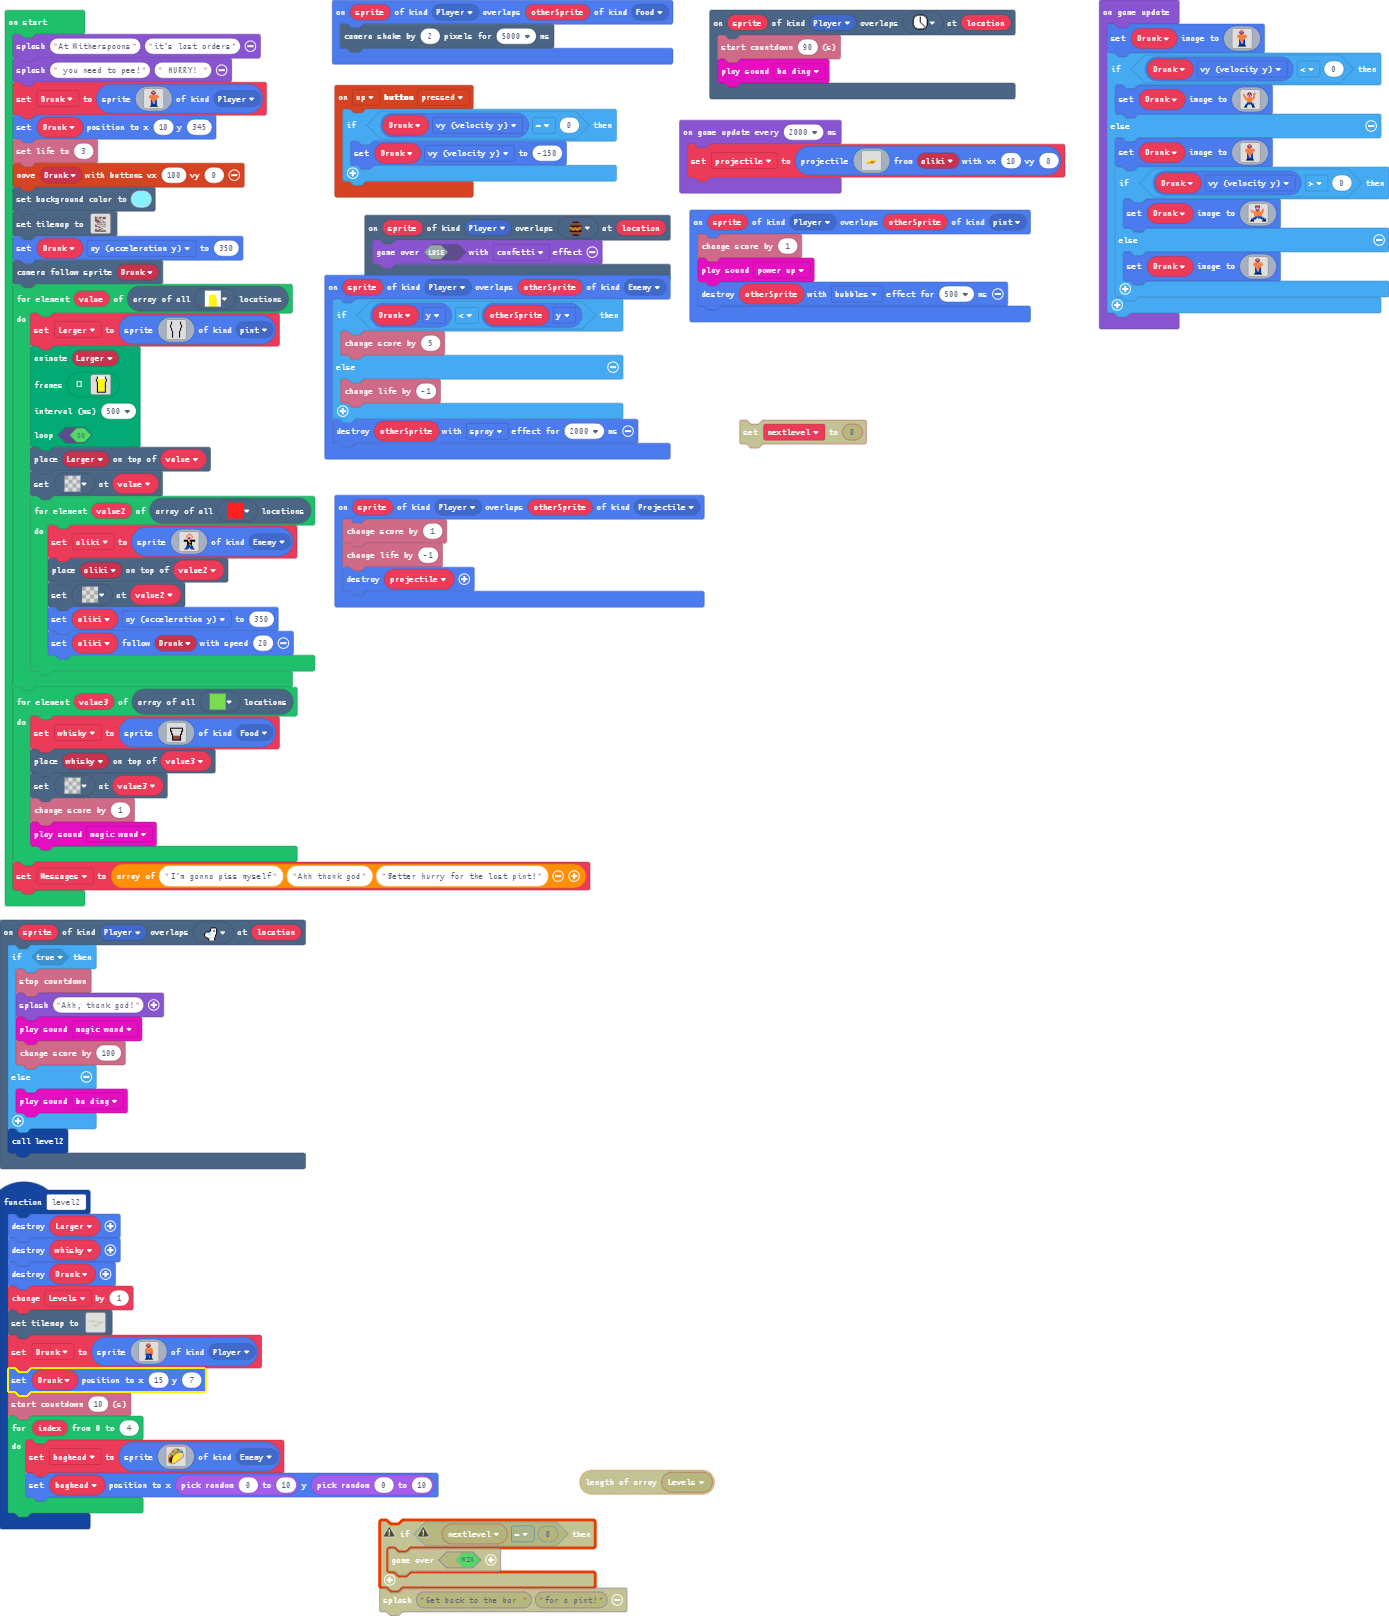
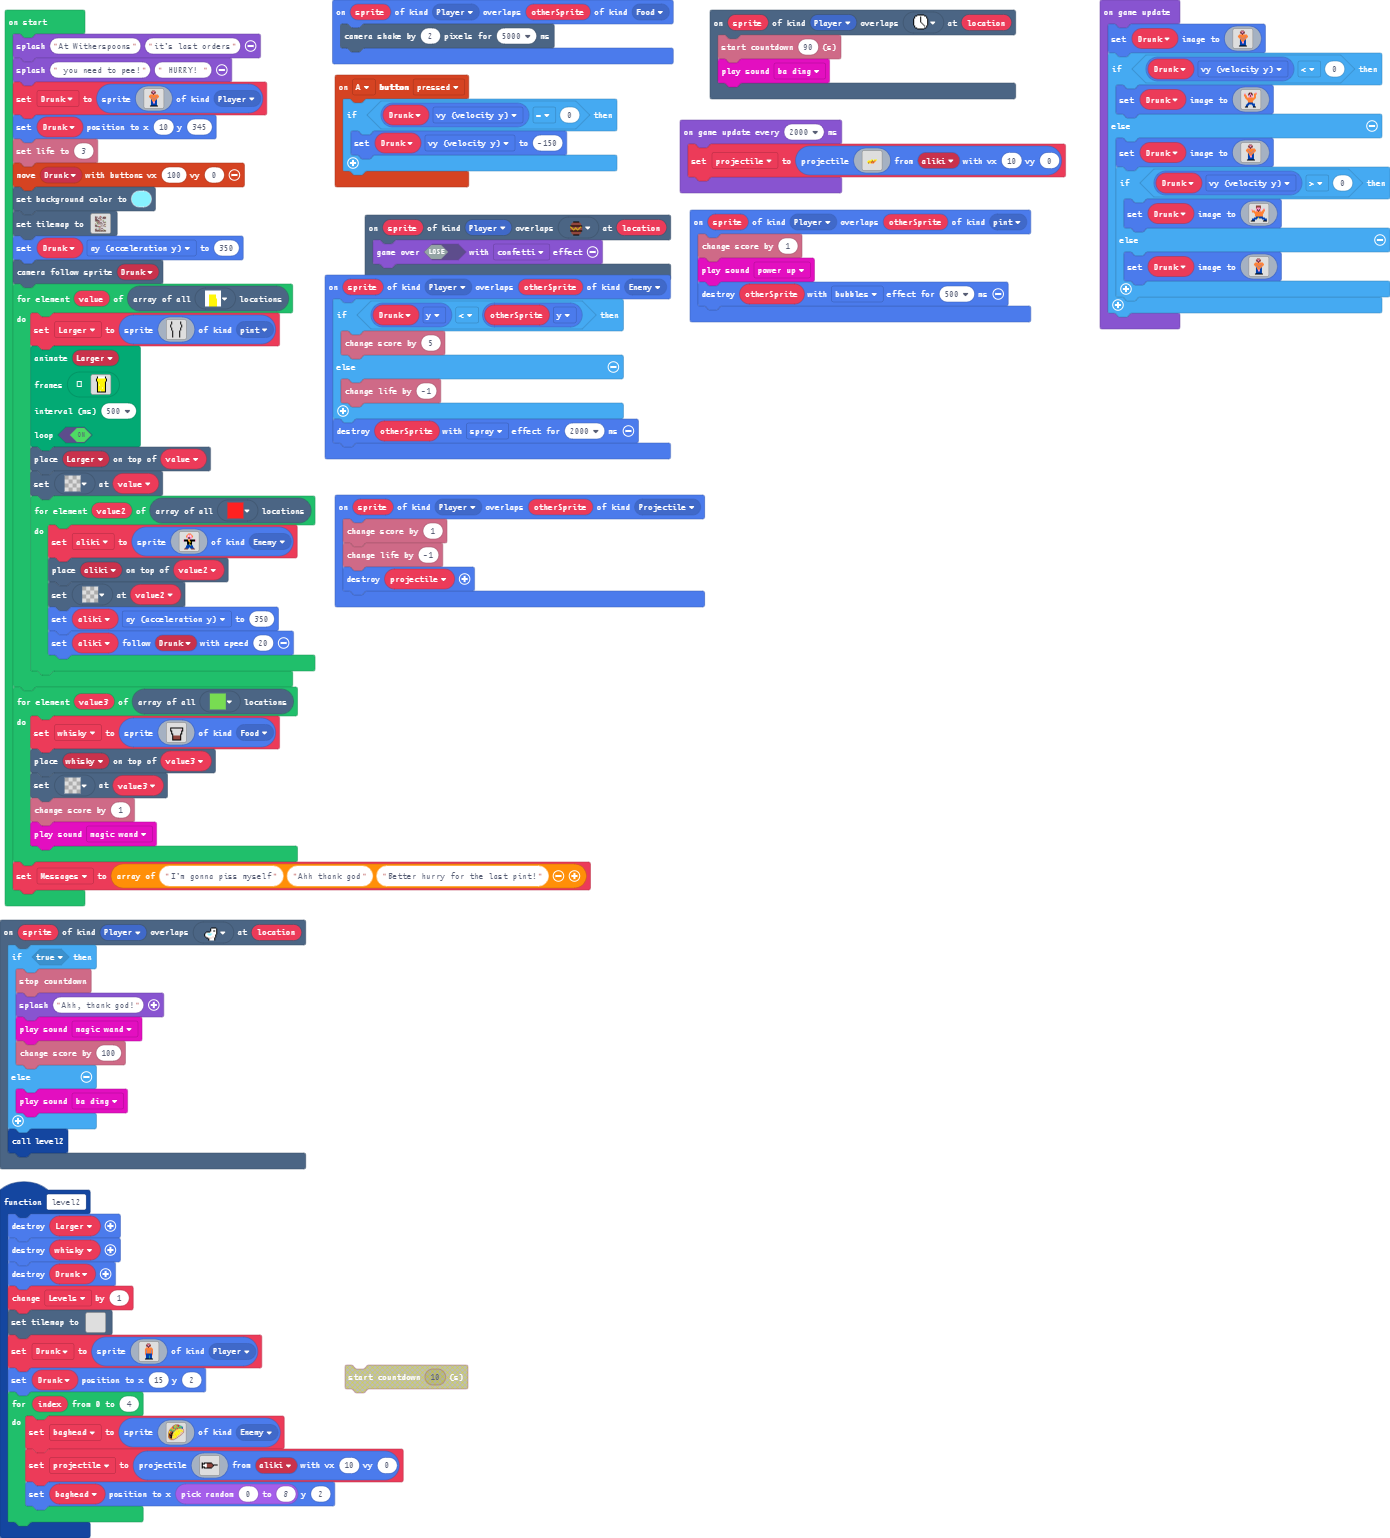
Update main.blocks, main.ts

Changed region(s): [[0.0, 0.0, 0.7739, 1.0], [0.7739, 0.0, 1.0, 0.2185], [0.5263, 0.2497, 0.6192, 0.2809]]

diff --git a/main.ts b/main.ts
@@ -256,16 +256,12 @@ function level2 () {
     Drunk.destroy()
     Levels += 1
     tiles.setTilemap(tiles.createTilemap(
[1 lines of base64/hex data omitted]
+            hex`1000040000000000000000000000000000000000000000000000000000000000000000000000000000000000000000000000000000000000000000000000000000000000`,
             img`
 . . . . . . . . . . . . . . . . 
 . . . . . . . . . . . . . . . . 
-2 2 2 2 2 . . . . . . . . . . . 
 . . . . . . . . . . . . . . . . 
-. . . . . . . . . . . . . . . . 
-. . . . . . . . . . . . . . . . 
-. . . . . . . . . . . . . . . . 
-. . . . . . . . . . . . . . . . 
+2 2 2 2 2 2 2 2 2 2 2 2 2 2 2 2 
 `,
             [myTiles.tile0,myTiles.tile1,myTiles.tile2,myTiles.tile3,myTiles.tile4,myTiles.tile5,myTiles.tile6,myTiles.tile7,myTiles.tile8,myTiles.tile9,myTiles.tile10,myTiles.tile11,myTiles.tile12,sprites.castle.tilePath1],
             TileScale.Sixteen
@@ -288,8 +284,7 @@ function level2 () {
 . . . . . 8 8 8 6 8 8 . . . . . 
 . . . . f f f f f f f f . . . . 
 `, SpriteKind.Player)
-    Drunk.setPosition(15, 7)
-    info.startCountdown(10)
+    Drunk.setPosition(15, 2)
     for (let index = 0; index <= 4; index++) {
         baghead = sprites.create(img`
 . . . . . . . . . . . . . . e e e e e e e . . . . . . . . . . . 
@@ -325,7 +320,25 @@ e 4 e f e f f f 5 d 5 d 5 5 5 5 5 d 4 e . . . . . . . . . . . .
 . . . . . e e e e e e e . . . . . . . . . . . . . . . . . . . . 
 . . . . . . . . . . . . . . . . . . . . . . . . . . . . . . . . 
 `, SpriteKind.Enemy)
-        baghead.setPosition(Math.randomRange(0, 10), Math.randomRange(0, 10))
+        projectile = sprites.createProjectileFromSprite(img`
+. . . . . . . . . . . . . . . . 
+. . . . . . . . . . . . . . . . 
+. . . . . . . . . . . . . . . . 
+. . . . . . . . . . . . . . . . 
+. . . . . . . . . . . . . . . . 
+f . f f f f f f f f . . . . . . 
+f f f 1 1 e e e e e f . . . . . 
+f 1 1 1 1 e e e e e e f f f f f 
+f 1 1 1 1 e e e e e e f . . . . 
+f f f 1 1 e e e e e f . . . . . 
+f . f f f f f f f f . . . . . . 
+. . . . . . . . . . . . . . . . 
+. . . . . . . . . . . . . . . . 
+. . . . . . . . . . . . . . . . 
+. . . . . . . . . . . . . . . . 
+. . . . . . . . . . . . . . . . 
+`, aliki, 10, 0)
+        baghead.setPosition(Math.randomRange(0, 8), 2)
     }
 }
 sprites.onOverlap(SpriteKind.Player, SpriteKind.Food, function (sprite, otherSprite) {
@@ -347,6 +360,11 @@ sprites.onOverlap(SpriteKind.Player, SpriteKind.Projectile, function (sprite, ot
     info.changeLifeBy(-1)
     projectile.destroy()
 })
+controller.A.onEvent(ControllerButtonEvent.Pressed, function () {
+    if (Drunk.vy == 0) {
+        Drunk.vy = -150
+    }
+})
 sprites.onOverlap(SpriteKind.Player, SpriteKind.Enemy, function (sprite, otherSprite) {
     if (Drunk.y < otherSprite.y) {
         info.changeScoreBy(5)
@@ -361,11 +379,6 @@ scene.onOverlapTile(SpriteKind.Player, myTiles.tile8, function (sprite, location
 })
 scene.onOverlapTile(SpriteKind.Player, myTiles.tile7, function (sprite, location) {
     game.over(false, effects.confetti)
-})
-controller.up.onEvent(ControllerButtonEvent.Pressed, function () {
-    if (Drunk.vy == 0) {
-        Drunk.vy = -150
-    }
 })
 sprites.onOverlap(SpriteKind.Player, SpriteKind.pint, function (sprite, otherSprite) {
     info.changeScoreBy(1)
